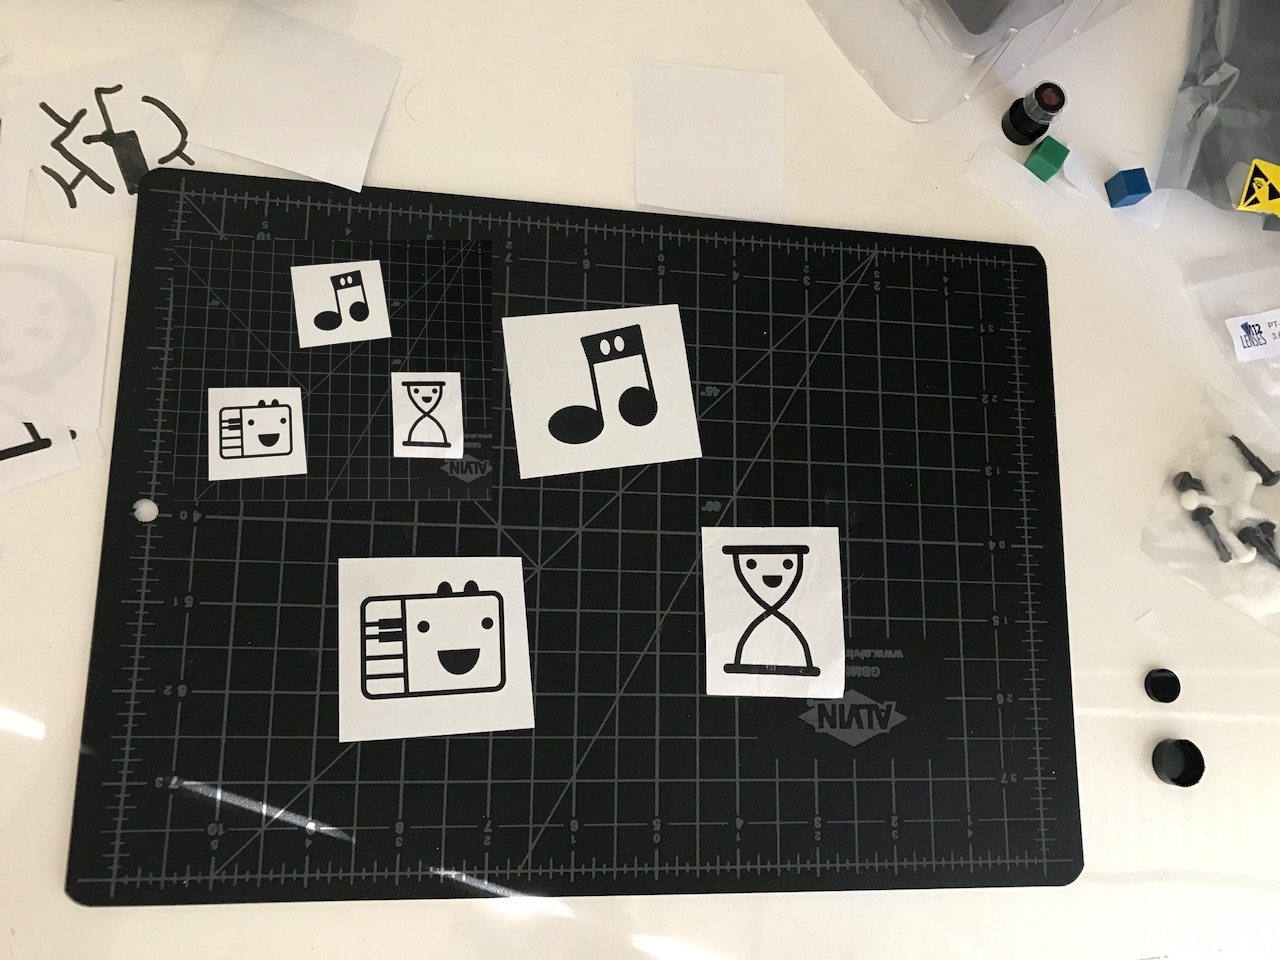
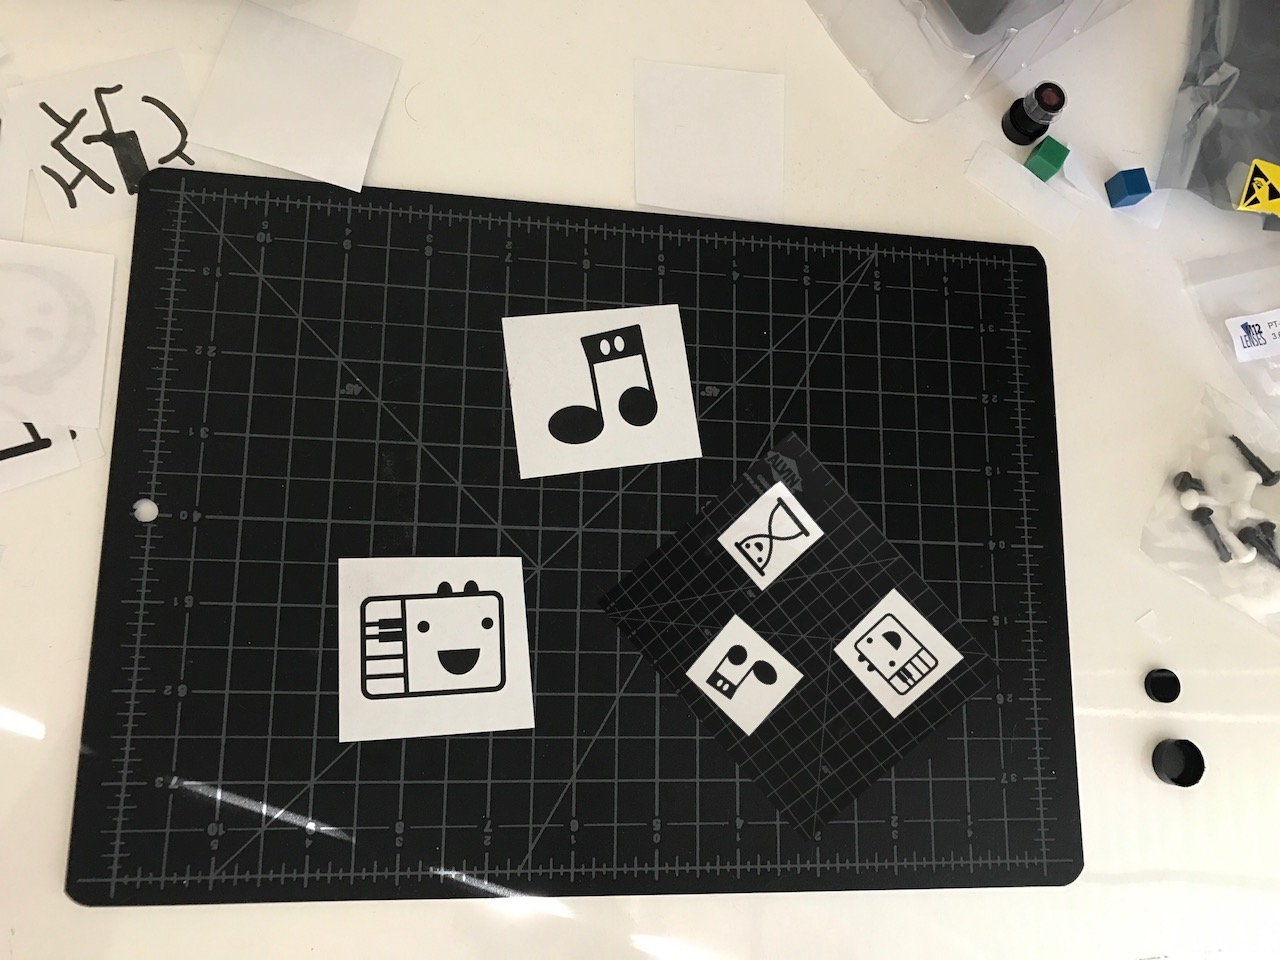
Pre-pass filtering for token contours

Changed region(s): [[0.4688, 0.4688, 0.7812, 0.8438], [0.125, 0.25, 0.375, 0.5312]]

diff --git a/src/Vision/TokenMatcher.cpp b/src/Vision/TokenMatcher.cpp
@@ -36,6 +36,9 @@ void TokenMatcher::Params::set( XmlTree xml )
 	getXml(xml,"InlierThreshold",mInlierThreshold);
 	getXml(xml,"NNMatchRatio",mNNMatchRatio);
 	getXml(xml,"NNMatchPercentage",mNNMatchPercentage);
+	getXml(xml,"TokenContourMinWidth",mTokenContourMinWidth);
+	getXml(xml,"TokenContourMaxWidth",mTokenContourMaxWidth);
+	getXml(xml,"TokenContourMinAspect",mTokenContourMinAspect);
 	
 	mTokenDefs.clear();
 	if (mVerbose) cout << "Tokens:" << endl;
@@ -142,6 +145,22 @@ vector<AnalyzedToken> TokenMatcher::tokensFromContours( const Pipeline::StageRef
 	for ( auto c: contours )
 	{
 		if (c.mIsHole||c.mTreeDepth>0) {
+			continue;
+		}
+
+		// Do a pre-pass to filter out out-of-range tokens
+		vec2 rotRecSize = c.mRotatedBoundingRect.mSize;
+		float largestEdge = MAX(rotRecSize.x, rotRecSize.y);
+		float smallestEdge = MIN(rotRecSize.x, rotRecSize.y);
+
+		// Check that the aspect ratio is roughly square-ish
+		if (smallestEdge / largestEdge < mParams.mTokenContourMinAspect) {
+			continue;
+		}
+
+		// Check that the token is within the size bounds we've designated for tokens
+		if (largestEdge  > mParams.mTokenContourMaxWidth ||
+			smallestEdge < mParams.mTokenContourMinWidth) {
 			continue;
 		}
 

diff --git a/src/Vision/TokenMatcher.h b/src/Vision/TokenMatcher.h
@@ -95,6 +95,14 @@ public:
 		
 		bool mVerbose   = false;
 		bool mIsEnabled = true;
+
+		// Filtering out degenerate contours
+
+		// Checks that the smallest edge / largest edge
+		// is roughly square-ish
+		float mTokenContourMinAspect=0.7;
+		float mTokenContourMinWidth=5;
+		float mTokenContourMaxWidth=10;
 		
 		// Tuning
 		// Distance threshold to identify inliers
